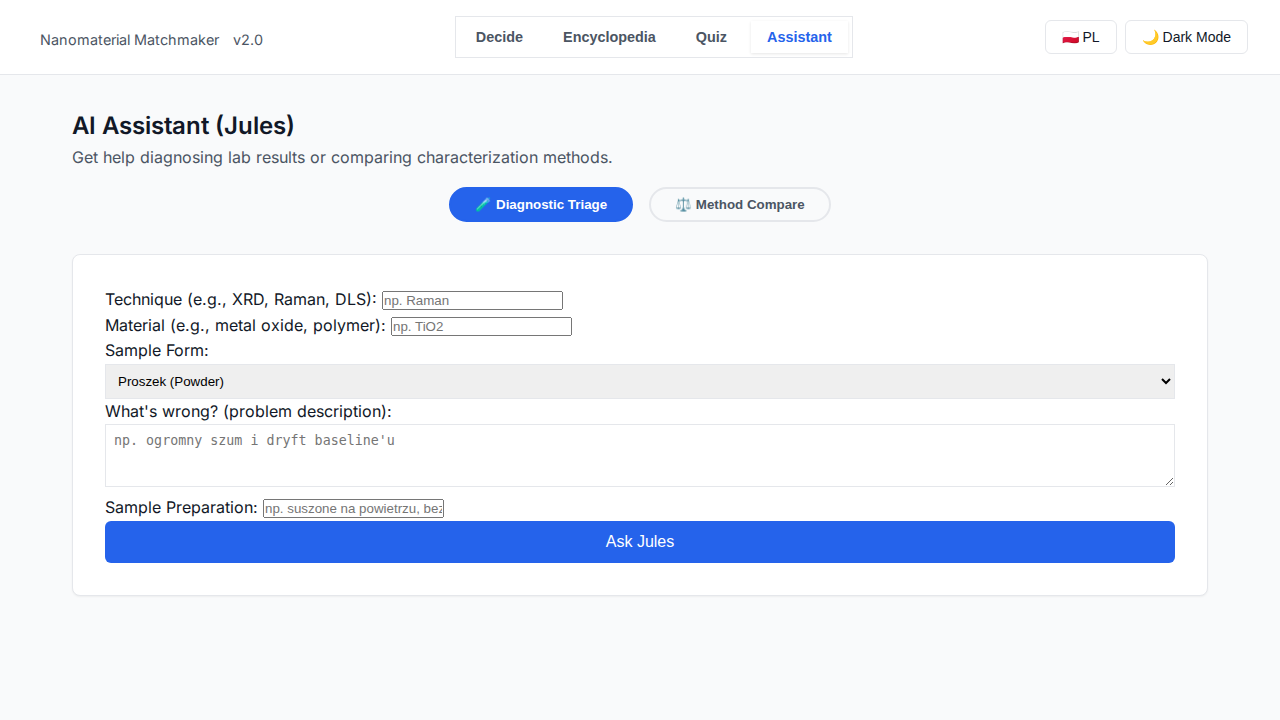
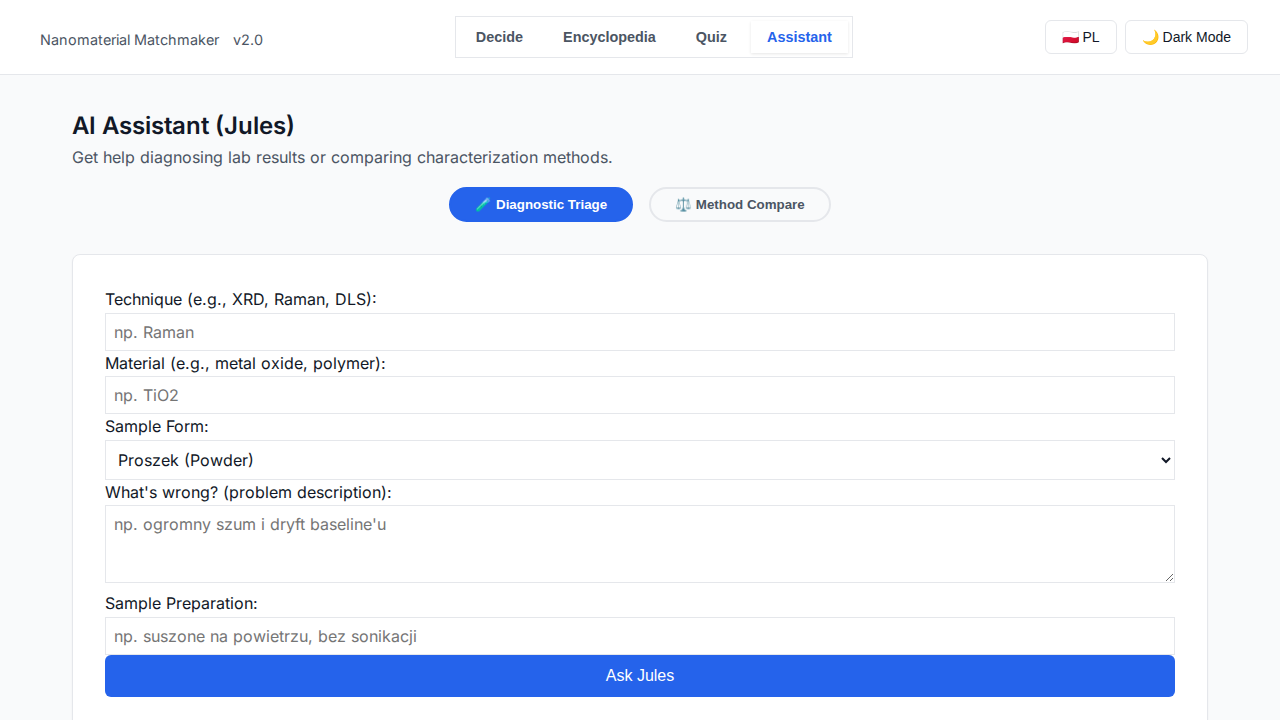
fix: address code review nitpicks
Addressed non-blocking issues from code review regarding the Jules assistant mock responses.

- Implemented an `escapeHTML` helper to sanitize user inputs before rendering them inside the mocked `.innerHTML` response, preventing self-XSS when evaluating user inputs locally.
- Extracted `.print-input` class definition in `styles.css` out of the `@media print` query so inputs on the Assistant forms are properly styled on-screen.

Changed region(s): [[0.0625, 0.3972, 0.9375, 0.7944], [0.0625, 0.825, 0.9375, 0.9778]]

diff --git a/app.js b/app.js
@@ -607,6 +607,12 @@ document.addEventListener('DOMContentLoaded', () => {
         });
     }
 
+    function escapeHTML(str) {
+        const div = document.createElement('div');
+        div.textContent = str;
+        return div.innerHTML;
+    }
+
     function askJules(payload) {
         responseBox.style.display = 'block';
         responseContent.textContent = uiDict.astLoading || "Jules myśli...";
@@ -616,9 +622,9 @@ document.addEventListener('DOMContentLoaded', () => {
             // Mock responses based on the prompt instructions
             if (payload.mode === 'diagnostic') {
                 responseContent.innerHTML = `Możliwe przyczyny:
-- <b>Nieodpowiednie przygotowanie próbki</b>: Grubość warstwy lub użyty rozpuszczalnik mógł wpłynąć na wynik (częsty problem w ${payload.data.technique}).
+- <b>Nieodpowiednie przygotowanie próbki</b>: Grubość warstwy lub użyty rozpuszczalnik mógł wpłynąć na wynik (częsty problem w ${escapeHTML(payload.data.technique)}).
 - <b>Artefakty pomiarowe</b>: Szum i dryft baseline'u mogą wynikać ze złej kalibracji lub nieodpowiedniego ustawienia aparatu.
-- <b>Specyfika materiału</b>: ${payload.data.materialType} w formie ${payload.data.sampleForm} często wykazuje takie anomalie.
+- <b>Specyfika materiału</b>: ${escapeHTML(payload.data.materialType)} w formie ${escapeHTML(payload.data.sampleForm)} często wykazuje takie anomalie.
 
 Co możesz sprawdzić:
 - Zmierz próbkę referencyjną, aby wykluczyć błąd aparatu.
@@ -626,11 +632,12 @@ Co możesz sprawdzić:
 - Zweryfikuj parametry pomiaru (np. czas, zakres).
 
 Ograniczenia metody:
-- ${payload.data.technique} ma fizyczne limity rozdzielczości, które mogą ujawniać się w Twojej próbce.
+- ${escapeHTML(payload.data.technique)} ma fizyczne limity rozdzielczości, które mogą ujawniać się w Twojej próbce.
 - Metoda jest wrażliwa na jakość przygotowania próbki.`;
             } else if (payload.mode === 'method-compare') {
+                const candidates = payload.data.candidates ? escapeHTML(payload.data.candidates.split(',')[0].trim()) : "wybranej metody";
                 responseContent.innerHTML = `Rekomendowana metoda:
-- W Twoim przypadku najlepiej użyć <b>${payload.data.candidates.split(',')[0].trim()}</b>, ponieważ idealnie nadaje się do formy ${payload.data.constraints.sampleForm} w celu uzyskania informacji: ${payload.data.goal}.
+- W Twoim przypadku najlepiej użyć <b>${candidates}</b>, ponieważ idealnie nadaje się do formy ${escapeHTML(payload.data.constraints.sampleForm)} w celu uzyskania informacji: ${escapeHTML(payload.data.goal)}.
 
 Dlaczego nie inne:
 - Pozostałe metody mogą być mniej czułe lub wymagać dłuższego czasu pomiaru, co nie jest optymalne.

diff --git a/styles.css b/styles.css
@@ -549,6 +549,23 @@ main { max-width: 1200px; margin: 0 auto; padding: 2rem; }
     width: 100%;
 }
 
+/* --- Form Inputs (Print & Assistant) --- */
+.print-input {
+    border: 1px solid var(--border-color);
+    background: var(--surface-light);
+    border-radius: var(--radius-sm);
+    color: var(--text-primary);
+    font-family: inherit;
+    font-size: inherit;
+    padding: 0.5rem;
+    outline: none;
+    width: 100%;
+}
+
+.print-input:focus {
+    border-color: var(--primary-color);
+}
+
 /* --- Print Styles (Project Sheet) --- */
 .print-only {
     display: none;
